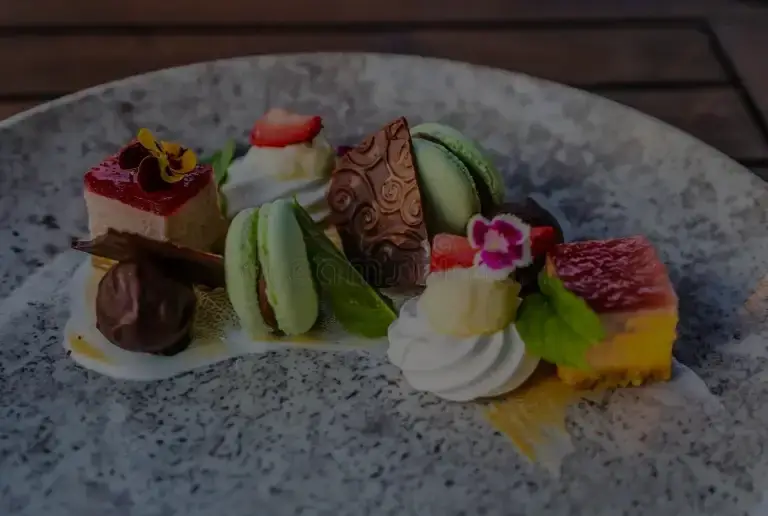
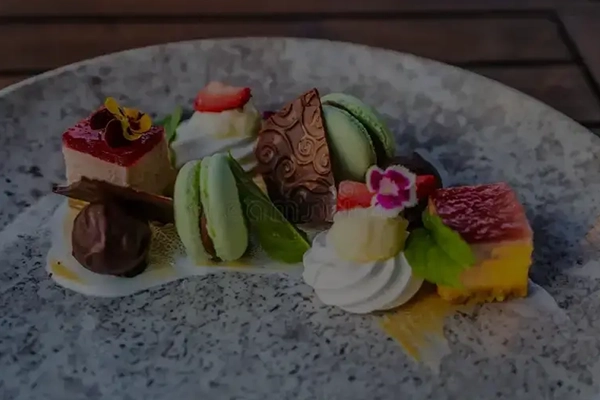
Category Images are optimized

diff --git a/src/pages/CategoriesPage/index.js b/src/pages/CategoriesPage/index.js
@@ -15,6 +15,9 @@ import nonVeg from "../../assets/photos/CategoryPage/non-veg.webp";
 import desserts from "../../assets/photos/CategoryPage/desserts.webp";
 import beverages from "../../assets/photos/CategoryPage/beverages.webp";
 
+// Default image
+import defaultImage from "../../assets/main-default.webp";
+
 const CategoriesPage = () => {
 	const [loading, setLoading] = useState(true);
 	const [fadeClass, setFadeClass] = useState("fade-out");
@@ -52,7 +55,7 @@ const CategoriesPage = () => {
 							<Link to={"/categories/veg"}>
 								<button className="category-btn">
 									<img
-										src={veg}
+										src={veg || defaultImage}
 										alt="Veg"
 										className="bg-img"
 										loading="lazy"
@@ -63,7 +66,7 @@ const CategoriesPage = () => {
 							<Link to={"/categories/non-veg"}>
 								<button className="category-btn  non-veg">
 									<img
-										src={nonVeg}
+										src={nonVeg || defaultImage}
 										alt="Non-Veg"
 										className="bg-img"
 										loading="lazy"
@@ -76,7 +79,7 @@ const CategoriesPage = () => {
 							<Link to={"/categories/desserts"}>
 								<button className="category-btn  desserts">
 									<img
-										src={desserts}
+										src={desserts || defaultImage}
 										alt="Desserts"
 										className="bg-img"
 										loading="lazy"
@@ -89,7 +92,7 @@ const CategoriesPage = () => {
 							<Link to={"/categories/beverages"}>
 								<button className="category-btn beverages">
 									<img
-										src={beverages}
+										src={beverages || defaultImage}
 										alt="Beverages"
 										className="bg-img"
 										loading="lazy"
